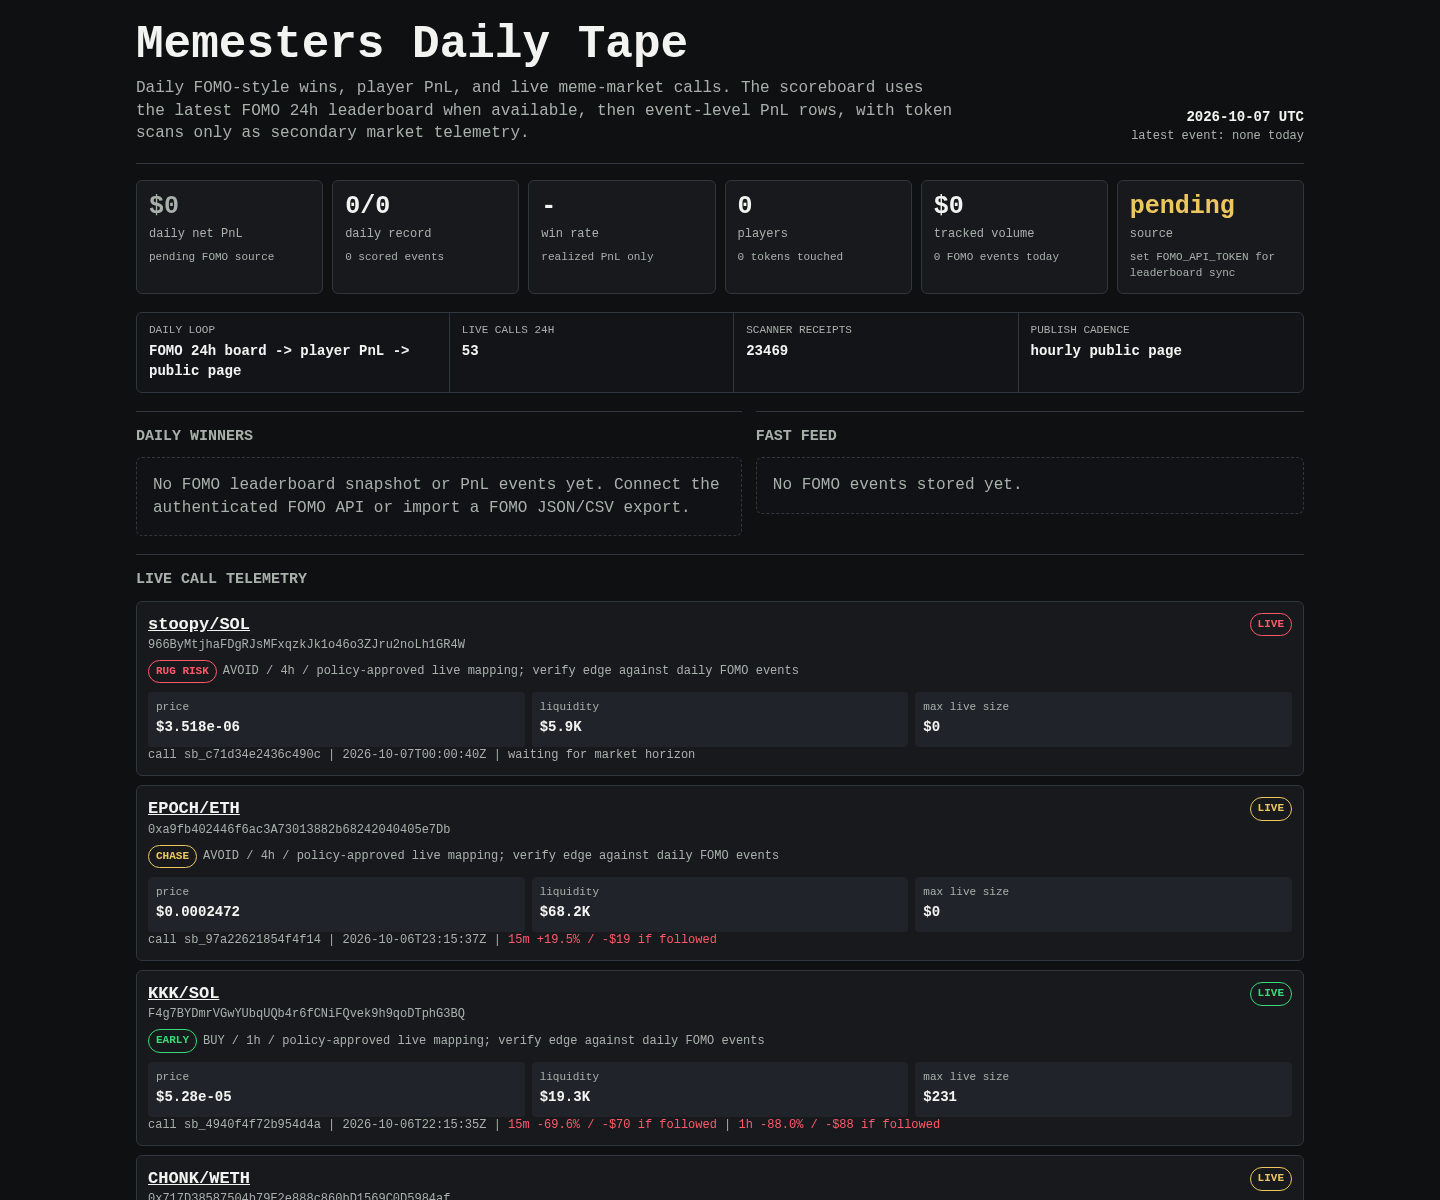
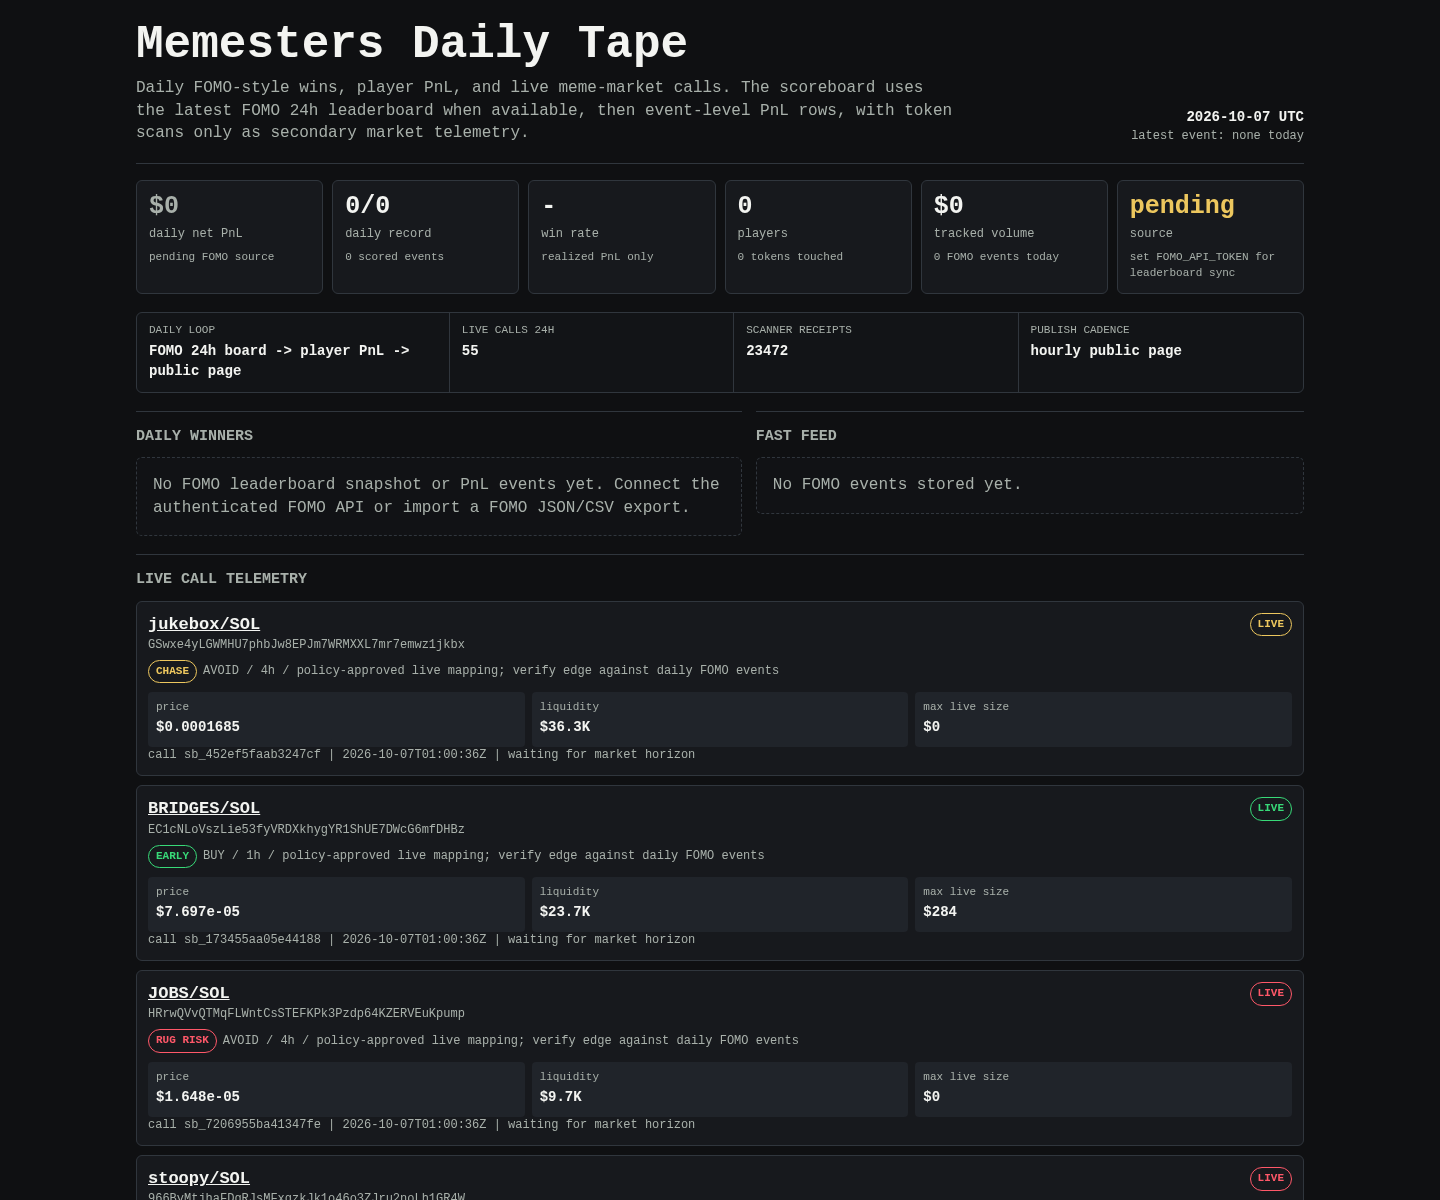
Update Memesters scoreboard

diff --git a/memesters/index.html b/memesters/index.html
@@ -149,8 +149,8 @@
 
     <div class="rail" aria-label="live operating loop">
       <div><span>daily loop</span><b>FOMO 24h board -> player PnL -> public page</b></div>
-      <div><span>live calls 24h</span><b>53</b></div>
-      <div><span>scanner receipts</span><b>23469</b></div>
+      <div><span>live calls 24h</span><b>55</b></div>
+      <div><span>scanner receipts</span><b>23472</b></div>
       <div><span>publish cadence</span><b>hourly public page</b></div>
     </div>
 
@@ -171,6 +171,69 @@
     <article class="receipt">
       <div class="receipt-head">
         <div>
+          <div class="pair"><a href="https://dexscreener.com/solana/5v6rnh61u9akohnldzyvdqh4usz8run6vxzsbyhpf7fj">jukebox/SOL</a></div>
+          <div class="addr">GSwxe4yLGWMHU7phbJw8EPJm7WRMXXL7mr7emwz1jkbx</div>
+          <div class="addr policy-line">
+            <span class="badge chase">CHASE</span>
+            <span>AVOID / 4h / policy-approved live mapping; verify edge against daily FOMO events</span>
+          </div>
+        </div>
+        <span class="badge chase">LIVE</span>
+      </div>
+      <div class="receipt-grid">
+        <div class="kv"><span>price</span><b>$0.0001685</b></div>
+        <div class="kv"><span>liquidity</span><b>$36.3K</b></div>
+        <div class="kv"><span>max live size</span><b>$0</b></div>
+      </div>
+      <div class="outcomes">call sb_452ef5faab3247cf | 2026-10-07T01:00:36Z | waiting for market horizon</div>
+    </article>
+    
+
+    <article class="receipt">
+      <div class="receipt-head">
+        <div>
+          <div class="pair"><a href="https://dexscreener.com/solana/g8y5ezeaayvtqyf6svtpxmrjdmcvc1zv2rrzzgstf1ps">BRIDGES/SOL</a></div>
+          <div class="addr">EC1cNLoVszLie53fyVRDXkhygYR1ShUE7DWcG6mfDHBz</div>
+          <div class="addr policy-line">
+            <span class="badge early">EARLY</span>
+            <span>BUY / 1h / policy-approved live mapping; verify edge against daily FOMO events</span>
+          </div>
+        </div>
+        <span class="badge early">LIVE</span>
+      </div>
+      <div class="receipt-grid">
+        <div class="kv"><span>price</span><b>$7.697e-05</b></div>
+        <div class="kv"><span>liquidity</span><b>$23.7K</b></div>
+        <div class="kv"><span>max live size</span><b>$284</b></div>
+      </div>
+      <div class="outcomes">call sb_173455aa05e44188 | 2026-10-07T01:00:36Z | waiting for market horizon</div>
+    </article>
+    
+
+    <article class="receipt">
+      <div class="receipt-head">
+        <div>
+          <div class="pair"><a href="https://dexscreener.com/solana/3prenqkeqzp7kuic8kedwcwhpewp7eg1v67y9jprob2a">JOBS/SOL</a></div>
+          <div class="addr">HRrwQVvQTMqFLWntCsSTEFKPk3Pzdp64KZERVEuKpump</div>
+          <div class="addr policy-line">
+            <span class="badge rug-risk">RUG RISK</span>
+            <span>AVOID / 4h / policy-approved live mapping; verify edge against daily FOMO events</span>
+          </div>
+        </div>
+        <span class="badge rug-risk">LIVE</span>
+      </div>
+      <div class="receipt-grid">
+        <div class="kv"><span>price</span><b>$1.648e-05</b></div>
+        <div class="kv"><span>liquidity</span><b>$9.7K</b></div>
+        <div class="kv"><span>max live size</span><b>$0</b></div>
+      </div>
+      <div class="outcomes">call sb_7206955ba41347fe | 2026-10-07T01:00:36Z | waiting for market horizon</div>
+    </article>
+    
+
+    <article class="receipt">
+      <div class="receipt-head">
+        <div>
           <div class="pair"><a href="https://dexscreener.com/solana/bxce1xutes9nwkmtrn26rgig8hkaryuhgwztelv44pct">stoopy/SOL</a></div>
           <div class="addr">966ByMtjhaFDgRJsMFxqzkJk1o46o3ZJru2noLh1GR4W</div>
           <div class="addr policy-line">
@@ -185,7 +248,7 @@
         <div class="kv"><span>liquidity</span><b>$5.9K</b></div>
         <div class="kv"><span>max live size</span><b>$0</b></div>
       </div>
-      <div class="outcomes">call sb_c71d34e2436c490c | 2026-10-07T00:00:40Z | waiting for market horizon</div>
+      <div class="outcomes">call sb_c71d34e2436c490c | 2026-10-07T00:00:40Z | <span class="positive">15m -27.4% / +$27 if followed</span></div>
     </article>
     
 
@@ -206,7 +269,7 @@
         <div class="kv"><span>liquidity</span><b>$68.2K</b></div>
         <div class="kv"><span>max live size</span><b>$0</b></div>
       </div>
-      <div class="outcomes">call sb_97a22621854f4f14 | 2026-10-06T23:15:37Z | <span class="negative">15m +19.5% / -$19 if followed</span></div>
+      <div class="outcomes">call sb_97a22621854f4f14 | 2026-10-06T23:15:37Z | <span class="negative">15m +19.5% / -$19 if followed</span> | <span class="positive">1h -63.2% / +$63 if followed</span></div>
     </article>
     
 
@@ -269,7 +332,7 @@
         <div class="kv"><span>liquidity</span><b>$108.2K</b></div>
         <div class="kv"><span>max live size</span><b>$0</b></div>
       </div>
-      <div class="outcomes">call sb_dbb6621a7d454a4b | 2026-10-06T20:15:37Z | <span class="negative">15m +66.9% / -$67 if followed</span> | <span class="negative">1h +82.3% / -$82 if followed</span></div>
+      <div class="outcomes">call sb_dbb6621a7d454a4b | 2026-10-06T20:15:37Z | <span class="negative">15m +66.9% / -$67 if followed</span> | <span class="negative">1h +82.3% / -$82 if followed</span> | <span class="positive">4h -10.1% / +$10 if followed</span></div>
     </article>
     
 
@@ -290,7 +353,7 @@
         <div class="kv"><span>liquidity</span><b>$58.2K</b></div>
         <div class="kv"><span>max live size</span><b>$0</b></div>
       </div>
-      <div class="outcomes">call sb_56d1751390eb4c5d | 2026-10-06T20:15:37Z | <span class="negative">15m +73.4% / -$73 if followed</span> | <span class="positive">1h -9.6% / +$10 if followed</span></div>
+      <div class="outcomes">call sb_56d1751390eb4c5d | 2026-10-06T20:15:37Z | <span class="negative">15m +73.4% / -$73 if followed</span> | <span class="positive">1h -9.6% / +$10 if followed</span> | <span class="positive">4h -17.1% / +$17 if followed</span></div>
     </article>
     
 
@@ -311,70 +374,7 @@
         <div class="kv"><span>liquidity</span><b>$51.2K</b></div>
         <div class="kv"><span>max live size</span><b>$0</b></div>
       </div>
-      <div class="outcomes">call sb_40a7dfa5b47c41d3 | 2026-10-06T20:15:37Z | <span class="positive">15m -24.7% / +$25 if followed</span> | <span class="positive">1h -43.8% / +$44 if followed</span></div>
-    </article>
-    
-
-    <article class="receipt">
-      <div class="receipt-head">
-        <div>
-          <div class="pair"><a href="https://dexscreener.com/solana/47o3gtkvlxdfiylxjzb4m1hzjg51jxidjwhmxz6ozxy5">BEOK/SOL</a></div>
-          <div class="addr">EbJ8UVhKMsum1qAZv8NmvrWhMNsp72PKF9id66XkBEoK</div>
-          <div class="addr policy-line">
-            <span class="badge early">EARLY</span>
-            <span>BUY / 1h / policy-approved live mapping; verify edge against daily FOMO events</span>
-          </div>
-        </div>
-        <span class="badge early">LIVE</span>
-      </div>
-      <div class="receipt-grid">
-        <div class="kv"><span>price</span><b>$6.301e-05</b></div>
-        <div class="kv"><span>liquidity</span><b>$21.0K</b></div>
-        <div class="kv"><span>max live size</span><b>$67</b></div>
-      </div>
-      <div class="outcomes">call sb_55ccc6a5cb81472d | 2026-10-06T19:30:38Z | <span class="negative">15m -92.9% / -$93 if followed</span> | <span class="negative">1h -92.9% / -$93 if followed</span> | <span class="negative">4h -93.0% / -$93 if followed</span></div>
-    </article>
-    
-
-    <article class="receipt">
-      <div class="receipt-head">
-        <div>
-          <div class="pair"><a href="https://dexscreener.com/arc/0xc63b611d879f99d961633f58760d2566caa368359802f5c825f728aed9c0bed9">SFM/ARGUS</a></div>
-          <div class="addr">0xf32e5af59485aEc214E85f787339021D65E19e61</div>
-          <div class="addr policy-line">
-            <span class="badge chase">CHASE</span>
-            <span>AVOID / 4h / policy-approved live mapping; verify edge against daily FOMO events</span>
-          </div>
-        </div>
-        <span class="badge chase">LIVE</span>
-      </div>
-      <div class="receipt-grid">
-        <div class="kv"><span>price</span><b>$4.943e-06</b></div>
-        <div class="kv"><span>liquidity</span><b>$4.3K</b></div>
-        <div class="kv"><span>max live size</span><b>$0</b></div>
-      </div>
-      <div class="outcomes">call sb_4c4c3fddd3494099 | 2026-10-06T19:15:36Z | <span class="positive">15m -3.6% / +$4 if followed</span> | <span class="negative">1h +14.6% / -$15 if followed</span> | <span class="negative">4h +35.2% / -$35 if followed</span></div>
-    </article>
-    
-
-    <article class="receipt">
-      <div class="receipt-head">
-        <div>
-          <div class="pair"><a href="https://dexscreener.com/solana/7gcltclmdmozbjkjlu9pbb6lby5rmvbmhhauk8n65hva">AGTM/SOL</a></div>
-          <div class="addr">EzahUvB1uCVDiXzXhqWULdtsX3umMn5C8SyxWtYJLD6u</div>
-          <div class="addr policy-line">
-            <span class="badge early">EARLY</span>
-            <span>BUY / 1h / policy-approved live mapping; verify edge against daily FOMO events</span>
-          </div>
-        </div>
-        <span class="badge early">LIVE</span>
-      </div>
-      <div class="receipt-grid">
-        <div class="kv"><span>price</span><b>$179.5</b></div>
-        <div class="kv"><span>liquidity</span><b>$23.1K</b></div>
-        <div class="kv"><span>max live size</span><b>$25</b></div>
-      </div>
-      <div class="outcomes">call sb_db5ed9749868481b | 2026-10-06T19:15:36Z | <span class="negative">15m -3.1% / -$3 if followed</span> | <span class="negative">1h -2.9% / -$3 if followed</span> | <span class="negative">4h -1.5% / -$2 if followed</span></div>
+      <div class="outcomes">call sb_40a7dfa5b47c41d3 | 2026-10-06T20:15:37Z | <span class="positive">15m -24.7% / +$25 if followed</span> | <span class="positive">1h -43.8% / +$44 if followed</span> | <span class="negative">4h +9.4% / -$9 if followed</span></div>
     </article>
     
     </section>
